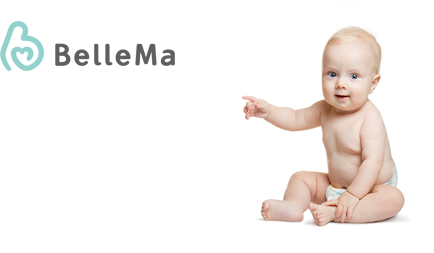
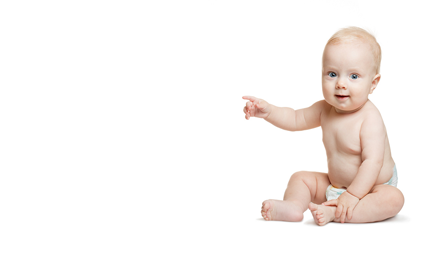
新需求

Changed region(s): [[0.0, 0.083, 0.4194, 0.2767]]

diff --git a/routes/middleware.js b/routes/middleware.js
@@ -54,25 +54,67 @@ exports.initLocals = function (req, res, next) {
 
 				keystone.list('customer_service_url').model.find().sort({'sort':1}).limit(1).exec(function (err, customUrlResult) {
 
-					if (err) {
-						return next(err);
-					}
 
-					var customerUrl = '#'
-					if(customUrlResult.length > 0 && customUrlResult[0] && customUrlResult[0]['linkUrl']){
-						customerUrl = customUrlResult[0]['linkUrl']
-					}
+					keystone.list('SiteSetting').model.find().sort({'sort':1}).limit(1).exec(function (err, settingResult) {
 
-					res.locals.productMenu = results;
-					res.locals.product1st = results[0]
-					res.locals.user = req.user;
-					res.locals.customerUrl = customerUrl;
+							if (err) {
+								return next(err);
+							}
+
+							var toplogoUrl = '/img/footLogo.png';
+							var footlogoUrl = '/img/new-logo.png';
+							var contactBgUrl = '/img/map.jpg'
+
+							// console.log(settingResult)
+
+							if(settingResult.length >0 && settingResult[0] && 
+								Array.isArray(settingResult[0]['topLogo']) &&
+								settingResult[0]['topLogo'].length > 0 &&
+								settingResult[0]['topLogo'][0]['filename']){
+
+								toplogoUrl = '/upload/'+settingResult[0]['topLogo'][0]['filename'];
+
+							}
+
+							if(settingResult.length >0 && settingResult[0] && 
+								Array.isArray(settingResult[0]['footLogo']) &&
+								settingResult[0]['footLogo'].length > 0 &&
+								settingResult[0]['footLogo'][0]['filename']){
+
+								footlogoUrl = '/upload/'+settingResult[0]['footLogo'][0]['filename'];
+
+							}
 
 
-					res.locals.navProduct = []
+							if(settingResult.length >0 && settingResult[0] && 
+								Array.isArray(settingResult[0]['contactBg']) &&
+								settingResult[0]['contactBg'].length > 0 &&
+								settingResult[0]['contactBg'][0]['filename']){
+
+								contactBgUrl = '/upload/'+settingResult[0]['contactBg'][0]['filename'];
+
+							}
 
 
-					next();
+							var customerUrl = '#'
+							if(customUrlResult.length > 0 && customUrlResult[0] && customUrlResult[0]['linkUrl']){
+								customerUrl = customUrlResult[0]['linkUrl']
+							}
+
+							res.locals.productMenu = results;
+							res.locals.product1st = results[0]
+							res.locals.user = req.user;
+							res.locals.customerUrl = customerUrl;
+							res.locals.toplogoUrl = toplogoUrl;
+							res.locals.footlogoUrl = footlogoUrl;
+
+							res.locals.navProduct = []
+
+
+							next();
+
+					})
+
 				})
 
 			})

diff --git a/public/static/css/style.css b/public/static/css/style.css
@@ -2401,7 +2401,7 @@ body > .navbar-collapse .navbar-search .btn-primary:hover {
 }
 
 .navbar-nav li a {
-    color: #7ce0d3;
+    color: #666f6e;
     font-size:16px;
     padding: 20px 20px;
 }
@@ -2979,7 +2979,15 @@ body > .navbar-collapse .navbar-search .btn-primary:hover {
   margin-top: 30px;
   background: url('/img/footRBg.png') 0 0 no-repeat;
   font-family: 'Avenir Next LT Pro Italic';
+  position: relative;
 }
+.footLogoBox{
+  display: block;
+  position: absolute;
+  top: 21px;
+  left: 0px;
+}
+
 .footBox .col-md-6 {
   min-height: 215px;
   margin-top: 100px;
@@ -2989,7 +2997,7 @@ body > .navbar-collapse .navbar-search .btn-primary:hover {
 }
 
 .foot-r p {
-  color:#7ce0d3;
+  color:#666f6e;
   font-size: 14px;
   line-height: 20px;
 }
@@ -3029,7 +3037,9 @@ body > .navbar-collapse .navbar-search .btn-primary:hover {
   font-size: 14px;
   position: relative;
 }
-
+.dropdown-menu li:first-child > a:hover{
+  color:#1abc9c;
+}
 .nav_fb_a{
   padding: 10px 20px 10px 60px !important;  
 }
@@ -4077,6 +4087,14 @@ background: url('/img/Product-@2x.png') right bottom no-repeat;
   background: url('/img/downArrow.png') 6px 3px no-repeat;
 }
 
+.downArrow2{
+  display: inline-block;
+  width: 25px;
+  height: 12px;
+
+  background: url('/img/downArrow2.png') 6px 3px no-repeat;
+}
+
 
 .card-close {
     width: 46px;
@@ -4481,6 +4499,10 @@ li img, p img {
 .pinkBtn:hover{
   color: #fff;
   opacity: 0.8;
+}
+
+.pinkBtnLong {
+  width: 200px;
 }
 
 .manualRow {

diff --git a/routes/views/productList.js b/routes/views/productList.js
@@ -77,8 +77,15 @@ exports = module.exports = function (req, res) {
 						locals.selCatName = item.name;
 					}
 
+					// var q = {'state':'published'}
+					// if(catName != 'all'){
+					// 	q = {'state':'published', categories:{'$in':[item._id]}}
+					// }
+
+					var q = {'state':'published', categories:{'$in':[item._id]}}
+
 					catAsyncList.push(function(asyncCb){
-						keystone.list('Product').model.count({'state':'published', categories:{'$in':[item._id]}}).exec(function (err, results) {
+						keystone.list('Product').model.count(q).exec(function (err, results) {
 							if(err) return asyncCb(err);
 							locals.data.catData[i] = {
 								'name':item.name,
@@ -141,7 +148,13 @@ exports = module.exports = function (req, res) {
 
 	//count 
 	asyncList.push(function(callback){
-		var qObj = {'state':'published', categories:{'$in':[CatId]}}
+
+		var q = {'state':'published'}
+		if(catName != 'all'){
+			q = {'state':'published', categories:{'$in':[CatId]}}
+		}
+
+		var qObj = q
 		if(tagId && tagId != ""){
 			qObj['tag'] = tagId;
 		}
@@ -168,8 +181,13 @@ exports = module.exports = function (req, res) {
 		}else{
 			sortObj[sort] = -1;
 		}
+
+		var q = {'state':'published'}
+		if(catName != 'all'){
+			q = {'state':'published', categories:{'$in':[CatId]}}
+		}
 		
-		var qObj = {'state':'published', categories:{'$in':[CatId]}}
+		var qObj = q
 		//console.log(CatId)
 		if(tagId && tagId != ""){
 			qObj['tag'] = tagId;

diff --git a/models/CompanyInfo.js b/models/CompanyInfo.js
@@ -9,13 +9,14 @@ var Types = keystone.Field.Types;
 var CompanyInfo = new keystone.List('CompanyInfo', {});
 
 CompanyInfo.add({
-	telphone:  { type: String,  default:'', },
-	email: { type: String, default:'' },
+	name:{type: String,  default:'', },
 
-	twitterUrl:  { type: String, default:'' },
-	googlePlusUrl:  { type: String, default:''},
-	facebookUrl:  { type: String, default:'' },
-	linkedinUrl:  { type: String, default:'' },
+	icons: { type: Types.LocalFiles, dest:global.localFilePath,imgSize:'32 * 32' },
+
+	isEmail: { type: Types.Select, options: 'yes, no', default: 'no'},
+
+	text: { type: String, default:'' },
+	jumpUrl:{ type: String, default:'' },
 
 	sort:{ type: Number, default:1 },
 
@@ -24,6 +25,6 @@ CompanyInfo.add({
 
 });
 
-CompanyInfo.defaultColumns = 'telphone|20%, email|50%, sort|30%';
+CompanyInfo.defaultColumns = 'name|20%, text|50%, sort|30%';
 CompanyInfo.register();
 

diff --git a/models/siteSetting.js b/models/siteSetting.js
@@ -1,0 +1,22 @@
+var keystone = require('keystone');
+var Types = keystone.Field.Types;
+
+/**
+ * SiteSetting Model
+ * =============
+ */
+
+var SiteSetting = new keystone.List('SiteSetting', {});
+
+SiteSetting.add({
+	title: { type: String,  default:'site setting' },
+	topLogo: { type: Types.LocalFiles, dest:global.localFilePath,imgSize:'183 * 52' },
+	footLogo: { type: Types.LocalFiles, dest:global.localFilePath,imgSize:'175 * 50' },
+	contactBg: { type: Types.LocalFiles, dest:global.localFilePath,imgSize:'310 * 584' },
+
+	sort:{ type: Number, default:1 },
+
+});
+
+SiteSetting.defaultColumns = 'title, sort|20%';
+SiteSetting.register();

diff --git a/models/Banner.js b/models/Banner.js
@@ -13,8 +13,9 @@ banner.add({
 	content:{ type: String, default:''},
 	isShow: { type: Types.Select, options: 'yes, no', default: 'no', index: true},
 	images: { type: Types.LocalFiles, dest:global.localFilePath,imgSize:'1920 * 700' },
-	topRate:{type: Number, default:15},
-	leftRate:{type: Number, default:50},
+	moreIsShow:{type: Types.Select, options: 'yes, no', default: 'yes',label:'moreIsShow'},
+	topRate:{type: Number, default:15, label:'moreTopRate'},
+	leftRate:{type: Number, default:50, label:'moreLeftRate'},
 	linkUrl: { type: String, default:'', index: true},
 	sort:{ type: Number, default:1 },
 	publishedDate: { type: Date},

diff --git a/routes/views/contactus.js b/routes/views/contactus.js
@@ -36,16 +36,16 @@ exports = module.exports = function (req, res) {
 
 	//data List 
 	asyncList.push(function(callback){
-		keystone.list('CompanyInfo').model.find({'status':'published'}).sort({'sort':1}).limit(1).exec(function (err, results) {
+		keystone.list('CompanyInfo').model.find({'status':'published', 'name':{'$exists':true}}).sort({'sort':1}).limit(1000).exec(function (err, results) {
 
 			if (err) {
 				return callback(err);
 			}
 
 			if(results.length == 0){
-				results = [{}]
+				results = []
 			}
-			locals.data.data = results[0];
+			locals.data.data = results;
 
 			//console.log(results)
 			callback()

diff --git a/routes/views/pressrealseList.js b/routes/views/pressrealseList.js
@@ -167,8 +167,8 @@ exports = module.exports = function (req, res) {
 		}
 
 		locals.page = getPageObj(page, perPage, locals.data.countData, '/blog/list');
-		locals.title = 'PressRealse|BelleMa'
-		locals.NavTip = 'PressRealse'
+		locals.title = 'Press Release|BelleMa'
+		locals.NavTip = 'Press Release'
 		locals.NavLink = '/breastfeeding/pressrealse/info'
 		locals.bannberUrl = '/img/banner2-@2x.png'
 		// Render the view

diff --git a/routes/views/pressrealseInfo.js b/routes/views/pressrealseInfo.js
@@ -122,8 +122,8 @@ exports = module.exports = function (req, res) {
 			return res.status(500).end();
 		}
 
-		locals.title = 'PressRealse|BelleMa'
-		locals.NavTip = 'PressRealse'
+		locals.title = 'Press Release|BelleMa'
+		locals.NavTip = 'Press Release'
 		locals.NavLink = '/breastfeeding/pressrealse/list'
 		locals.bannberUrl = '/img/banner2-@2x.png'
 		

diff --git a/models/Support.js b/models/Support.js
@@ -21,5 +21,5 @@ Support.add({
 	publishedDate: { type: Types.Date, index: true, dependsOn: { state: 'published' } },
 });
 
-Support.defaultColumns = 'name, publishedDate|20%';
+Support.defaultColumns = 'name, state, publishedDate';
 Support.register();
